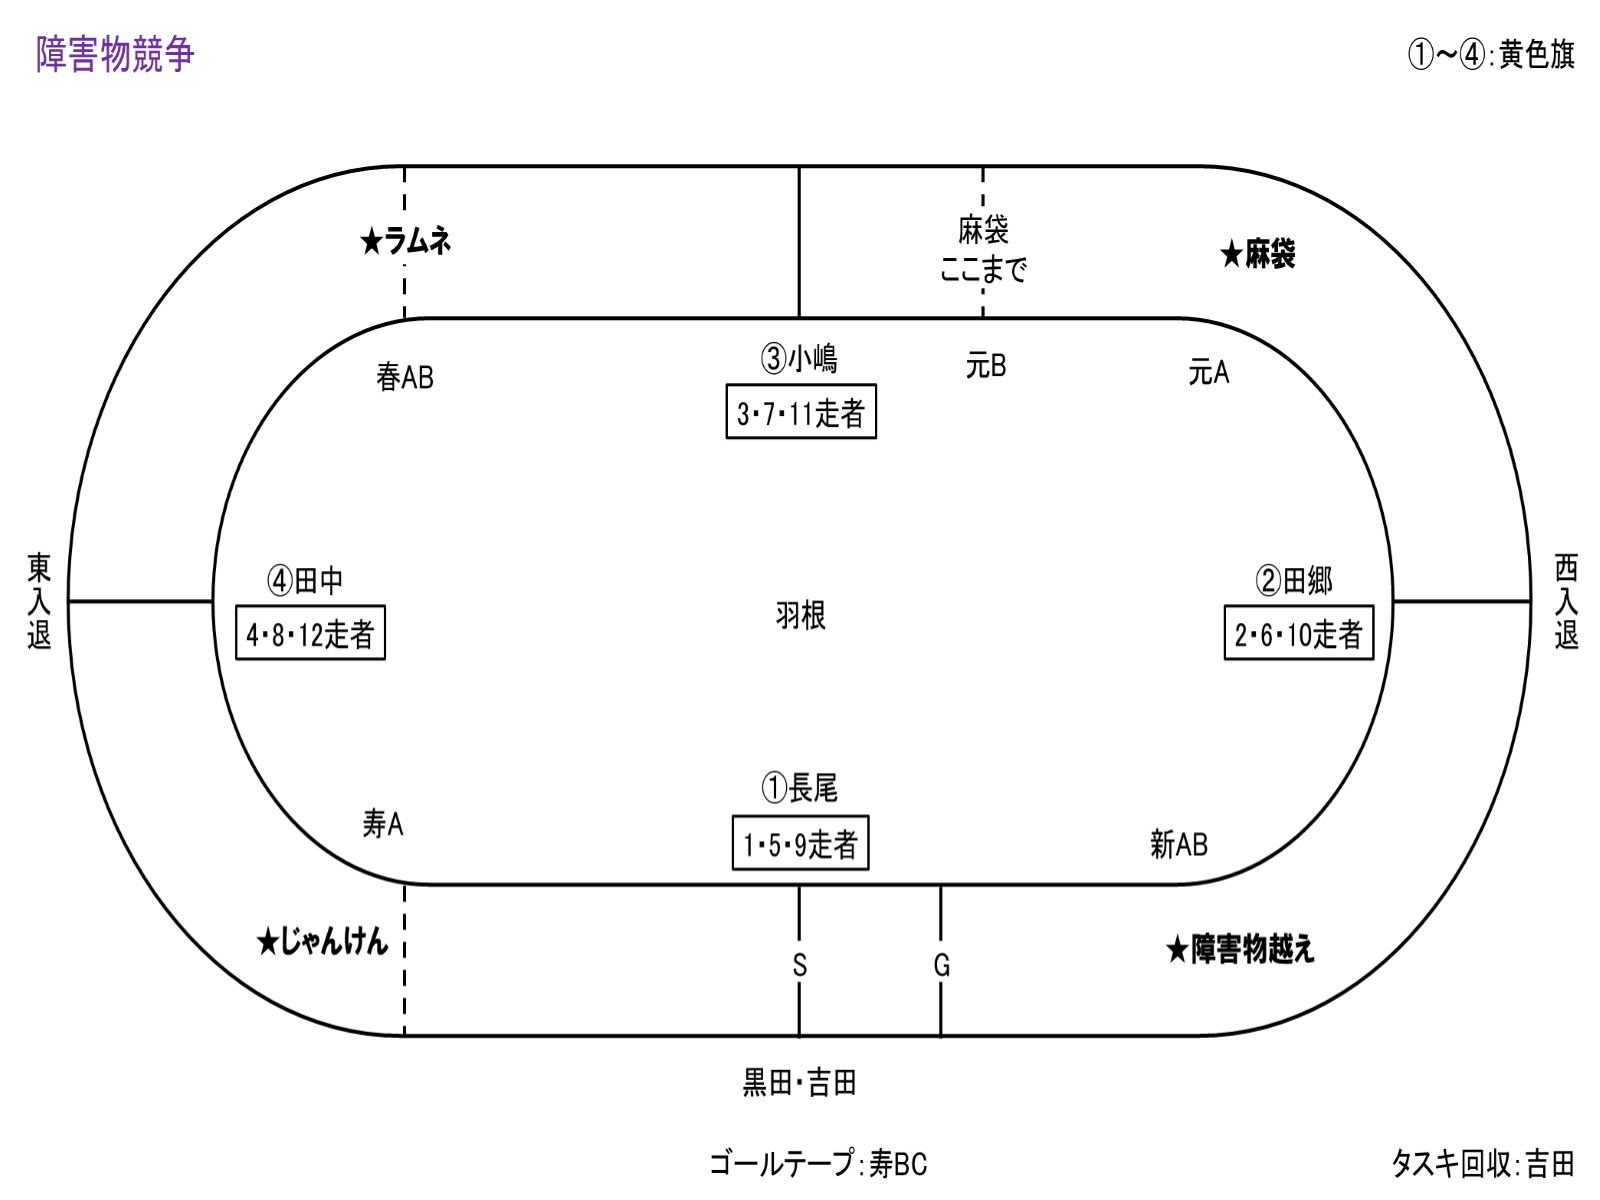
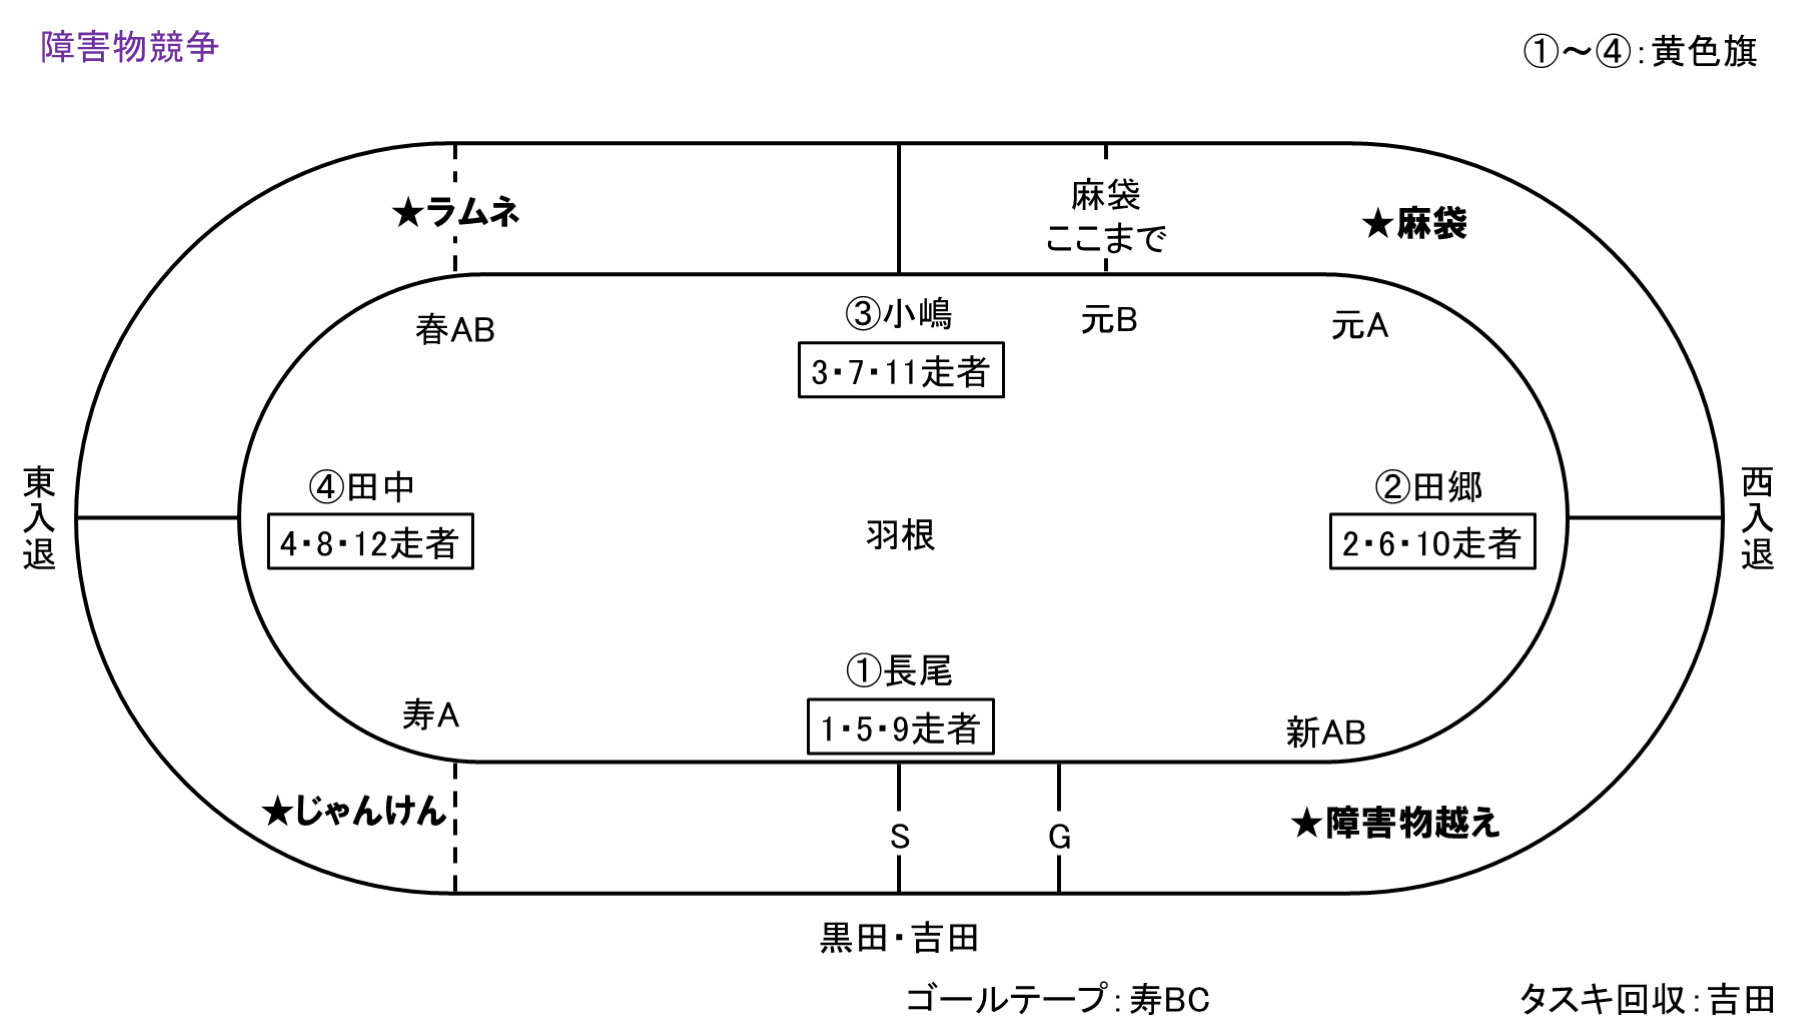
配置図をフォント拡大版に更新し正しい縦横比で再書き出し、配色を青系に変更、審判要項の表紙をヘッダーに追加
- 配置図画像13枚を新しいパワポ（審判要項配置図3、フォント拡大版）から再書き出し
  スライドの実際の縦横比（約1.74:1）に合わせて書き出すことで、横が潰れて見えていた問題を解消
- CSSの配色を緑系から青系に変更（アクセントカラー・背景色・アプリアイコン・PWAマニフェスト）
- 審判要項の表紙画像をヘッダー右上に小さく配置し、タップで全画面表示できるようにした

diff --git a/site/css/style.css b/site/css/style.css
@@ -1,11 +1,11 @@
 :root {
-  --color-bg: #f5f3ea;
+  --color-bg: #eef3f8;
   --color-surface: #ffffff;
-  --color-accent: #1d4a3a;
-  --color-accent-light: #e8f0ec;
-  --color-text: #202020;
-  --color-text-muted: #5a5a5a;
-  --color-border: #d9d5c6;
+  --color-accent: #145da0;
+  --color-accent-light: #e3edf9;
+  --color-text: #1c2733;
+  --color-text-muted: #5a6572;
+  --color-border: #d3ddea;
   --color-now: #c0392b;
   --radius: 14px;
 }
@@ -33,10 +33,30 @@ h1, h2, h3 {
 }
 
 .app-header {
-  background: var(--color-accent);
+  position: relative;
+  background: linear-gradient(135deg, var(--color-accent), #0d3f70);
   color: #fff;
   padding: 16px 16px 14px;
   text-align: center;
+}
+
+.app-header__cover {
+  position: absolute;
+  top: 12px;
+  right: 14px;
+  width: 40px;
+  padding: 0;
+  border: 2px solid rgba(255, 255, 255, 0.7);
+  border-radius: 6px;
+  overflow: hidden;
+  background: #fff;
+  box-shadow: 0 2px 6px rgba(0, 0, 0, 0.25);
+}
+
+.app-header__cover img {
+  display: block;
+  width: 100%;
+  height: auto;
 }
 
 .app-header h1 {

diff --git a/site/index.html b/site/index.html
@@ -5,7 +5,7 @@
 <meta name="viewport" content="width=device-width, initial-scale=1" />
 <title>審判要項｜第70回 那珂南校区体育祭</title>
 <meta name="robots" content="noindex, nofollow" />
-<meta name="theme-color" content="#1d4a3a" />
+<meta name="theme-color" content="#145da0" />
 <link rel="manifest" href="manifest.webmanifest" />
 <link rel="icon" href="icons/icon-192.png" />
 <link rel="apple-touch-icon" href="icons/icon-192.png" />
@@ -14,6 +14,9 @@
 <body>
 
 <header class="app-header">
+  <button type="button" class="app-header__cover" id="cover-button" aria-label="審判要項の表紙を拡大表示">
+    <img src="images/cover.png" alt="審判要項 表紙" />
+  </button>
   <h1>第70回 那珂南校区体育祭<br><span>審判要項</span></h1>
   <p class="app-header__date">2026年10月4日（日）　※雨天時は10月11日に順延</p>
 </header>

diff --git a/site/js/app.js b/site/js/app.js
@@ -18,6 +18,7 @@
     imageOverlay: document.getElementById("image-overlay"),
     imageOverlayImg: document.getElementById("image-overlay-img"),
     imageOverlayClose: document.getElementById("image-overlay-close"),
+    coverButton: document.getElementById("cover-button"),
   };
 
   async function loadData() {
@@ -246,6 +247,9 @@
 
   function setupNav() {
     el.backButton.addEventListener("click", showTimeline);
+    el.coverButton.addEventListener("click", () =>
+      openImageOverlay("images/cover.png", "審判要項の表紙")
+    );
     el.imageOverlayClose.addEventListener("click", closeImageOverlay);
     // 背景（画像の外側）をタップしたときだけ閉じる。画像自体のタップでは
     // 閉じないようにして、ピンチ操作や二本指ズームの邪魔をしない。
